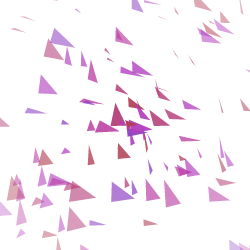
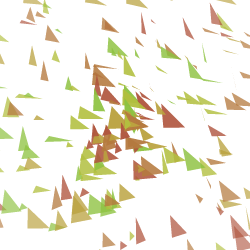
fixed minor bug with color

diff --git a/triangles/js/main.js b/triangles/js/main.js
@@ -73,8 +73,8 @@ function drawTriangle(obj) {
     var dist = pointDistance(obj.points[0], base);
     if (dist > config.triangles.maxDistance) return false;
     var alpha = 1 - (dist / config.triangles.maxDistance);
-    ctx.fillStyle = obj.col.style.replace('%alpha', alpha);
     ctx.beginPath();
+    ctx.fillStyle = obj.col.style.replace('%alpha', alpha);
     ctx.moveTo(obj.points[0].x, obj.points[0].y);
     obj.points.forEach(function (point) {
         ctx.lineTo(point.x, point.y);

diff --git a/common/js/common.js b/common/js/common.js
@@ -203,7 +203,7 @@ function convertColorToStyle(color) {
 }
 
 function converColorToRgbaWithAlphaPlaceholderStyle(color) {
-    color.style = 'rgba(%red, %blue, %green, %alpha)'
+    color.style = 'rgba(%red, %green, %blue, %alpha)'
         .replace('%red', color.r)
         .replace('%blue', color.b)
         .replace('%green', color.g);
